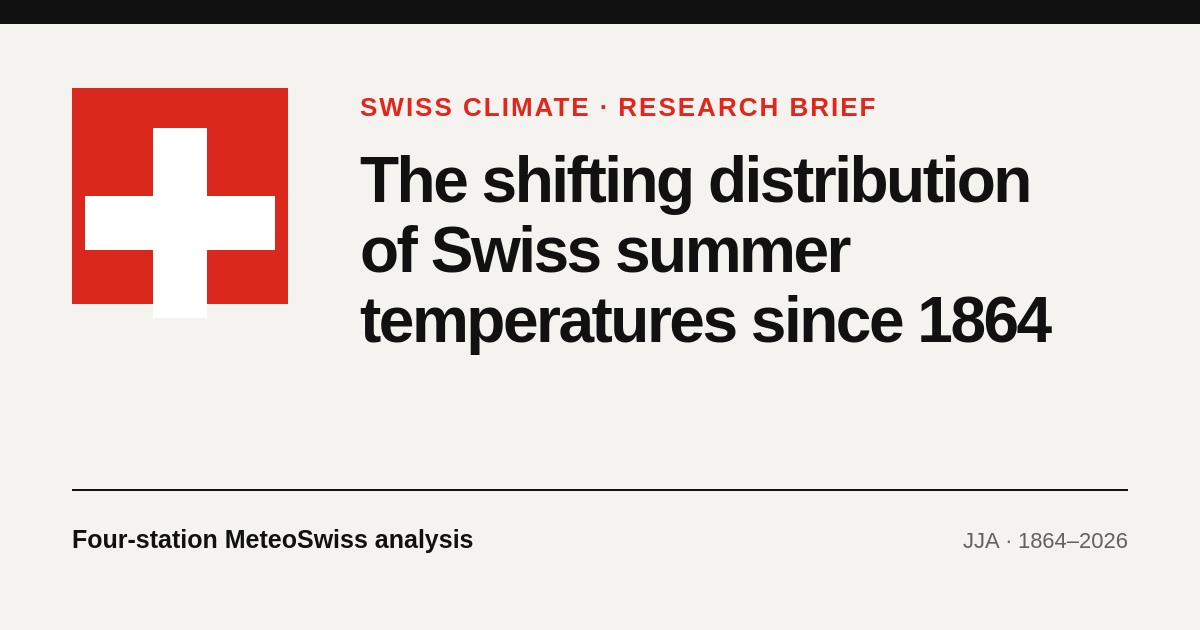
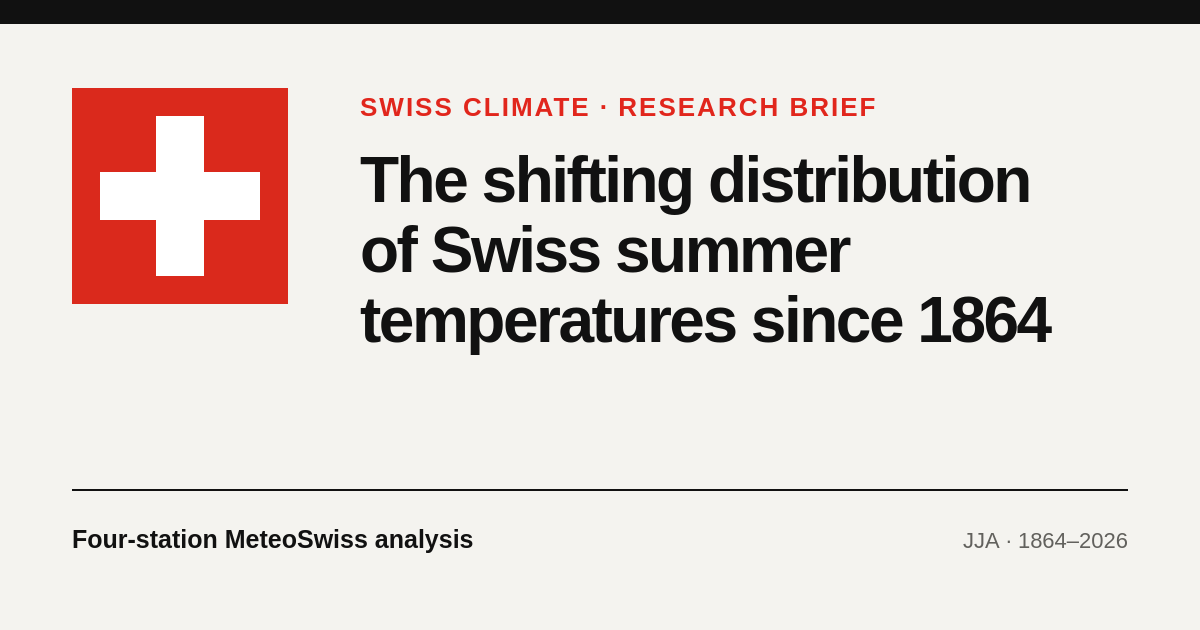
Center Swiss cross in social preview

Changed region(s): [[0.0617, 0.2714, 0.2467, 0.4825], [0.1233, 0.181, 0.185, 0.2111]]

diff --git a/website/index.html b/website/index.html
@@ -9,14 +9,14 @@
     <meta property="og:url" content="https://p3jitnath.github.io/meteoswiss-analysis/" />
     <meta property="og:title" content="Swiss summers, shifted" />
     <meta property="og:description" content="Swiss summer temperature distributions since 1864, based on MeteoSwiss open data." />
-    <meta property="og:image" content="https://p3jitnath.github.io/meteoswiss-analysis/social-preview.png" />
-    <meta property="og:image:secure_url" content="https://p3jitnath.github.io/meteoswiss-analysis/social-preview.png" />
+    <meta property="og:image" content="https://p3jitnath.github.io/meteoswiss-analysis/social-preview.png?v=2" />
+    <meta property="og:image:secure_url" content="https://p3jitnath.github.io/meteoswiss-analysis/social-preview.png?v=2" />
     <meta property="og:image:type" content="image/png" />
     <meta property="og:image:width" content="1200" />
     <meta property="og:image:height" content="630" />
     <meta property="og:image:alt" content="Swiss flag beside the title of the Swiss summer temperature research brief" />
     <meta name="twitter:card" content="summary_large_image" />
-    <meta name="twitter:image" content="https://p3jitnath.github.io/meteoswiss-analysis/social-preview.png" />
+    <meta name="twitter:image" content="https://p3jitnath.github.io/meteoswiss-analysis/social-preview.png?v=2" />
     <link rel="icon" type="image/svg+xml" href="./favicon.svg" />
     <title>Swiss summers, shifted</title>
   </head>
